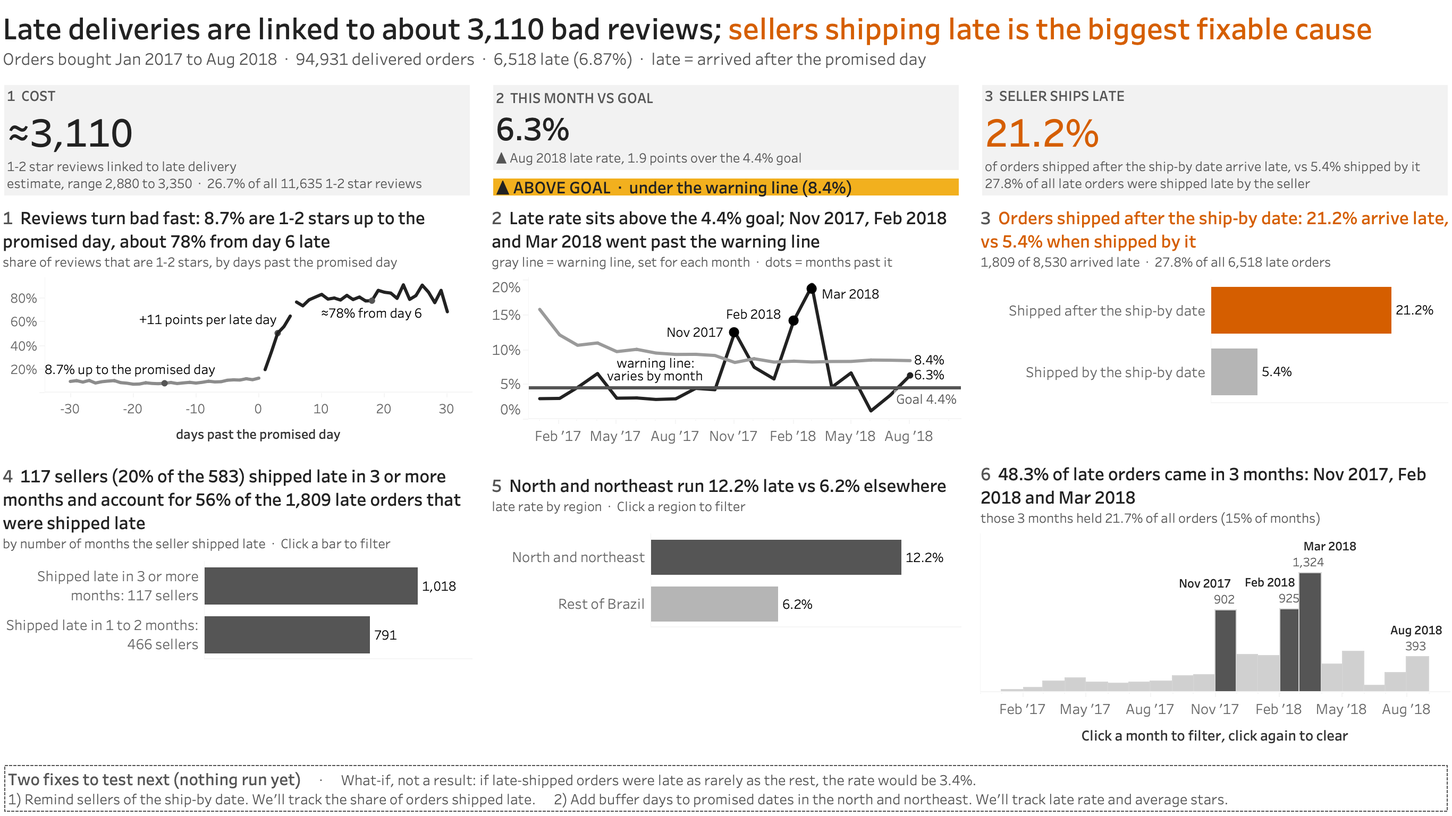
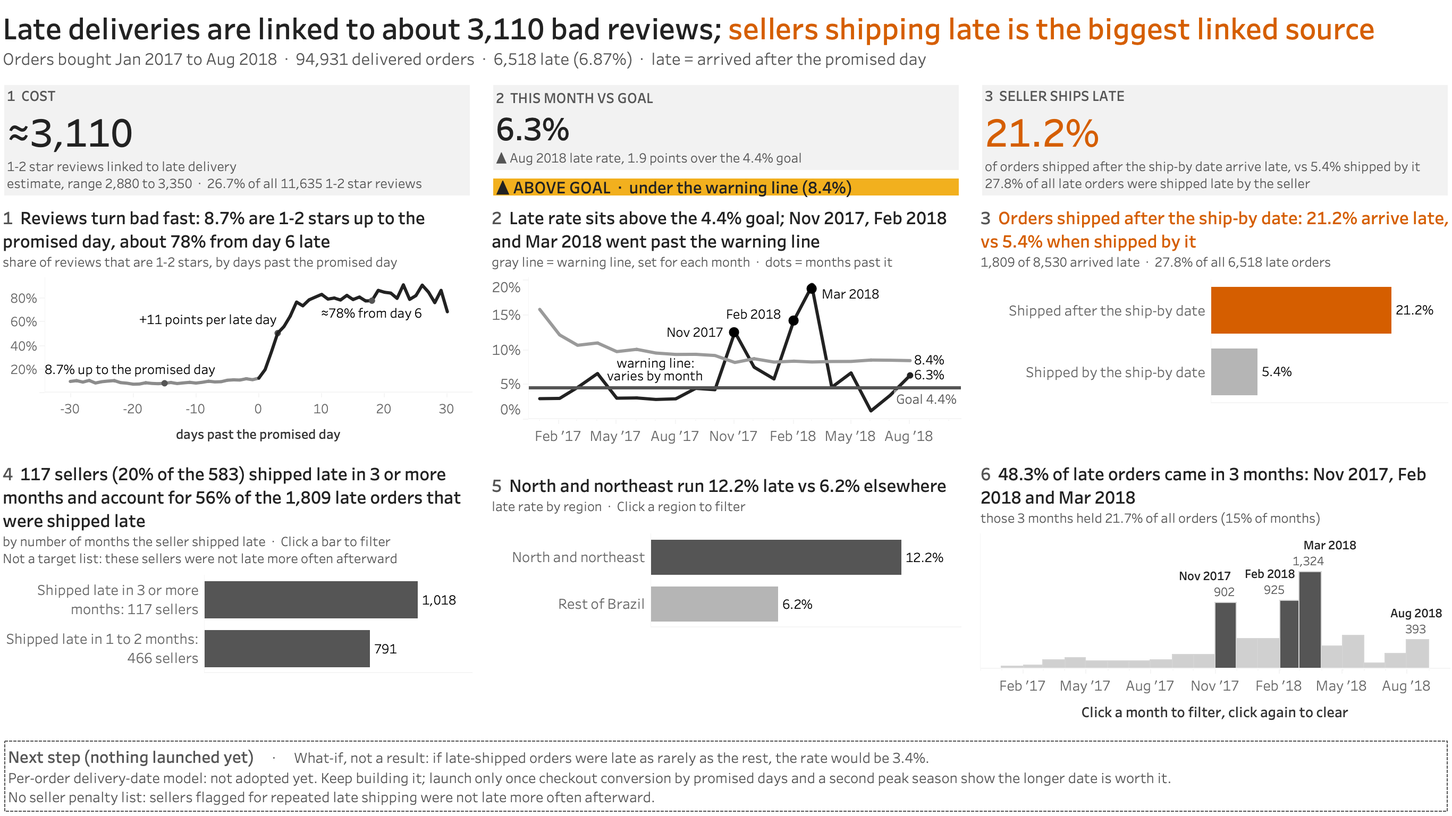
Rebuild Tableau dashboards with the current recommendation
- Bottom strip on both workbooks: the old "Two fixes to test next" (ship-by reminders, buffer days)
  is replaced by the case study's recommendation on three lines: the per-order delivery-date model
  is not adopted yet and launches only once checkout conversion by promised days and a second peak
  season show the longer date is worth it; no seller penalty list.
- Title: "biggest linked source" (fits on one line). Six-chart sellers panel: "Not a target list" note.
- Review ramp line no longer breaks at day 0-1 and day 5-6 (bridge rows in prep.py); Feb 2018 count
  no longer touches the Mar 2018 bar (tag_pad in prep4.py).
- Workbooks regenerated and re-exported from Tableau Desktop; docs/img/dashboard.png,
  v4_six_chart.png and B1_v2.png replaced. The "predates the recommendations" notes are removed.
- numbers_check_v4.py: 110 checks (header, tile 1, ramp labels and bridge rows, panel 3 and 6
  subtitles, strip and panel note; fails on the retired strip wording).

diff --git a/dashboard/tableau/gen_v4.py b/dashboard/tableau/gen_v4.py
@@ -423,7 +423,7 @@ if need2:
         tip=['Orders: ',('order_code','cnt'),'\nLate orders: ',('late_n','sum'),'\nLate rate: ',('late','avg')])
     if (PROTO=='P2' and NCH=='6') or PROTO=='P1':
         BK=('month_start','tmn')
-        ows('Months',ORD,[BK],mark='Bar',cols=ORD.q(*BK),rows=ORD.q('late_n','sum'),color=('is_worst3_month','nk'),text=[('tag_m','nk'),('late_tag_n','sum')],runs=[(('tag_m','nk'),8,True,INK),(None,0,0,''),(('late_tag_n','sum'),8,False,MID)] if YEARTAG else [(('month_tag','nk'),8,True,INK),(None,0,0,''),(('late_tag_n','sum'),8,False,MID)],
+        ows('Months',ORD,[BK],mark='Bar',cols=ORD.q(*BK),rows=ORD.q('late_n','sum'),color=('is_worst3_month','nk'),text=[('tag_m','nk'),('late_tag_n','sum')]+([('tag_pad','nk')] if YEARTAG else []),runs=[(('tag_m','nk'),8,True,INK),(None,0,0,''),(('late_tag_n','sum'),8,False,MID),(('tag_pad','nk'),8,False,MID)] if YEARTAG else [(('month_tag','nk'),8,True,INK),(None,0,0,''),(('late_tag_n','sum'),8,False,MID)],
             palette_map=[('true',MID),('false',PALE)],hide_axes=[('late_n','sum')],extra_uses=[('late_n','sum'),('late_tag_n','sum'),BK],
             axis_titles={(BK[0],BK[1],'cols'):'Click a month to filter, click again to clear',('late_n','sum','rows'):''},xspace=(BK,TORIG if YEARTAG else '#2017-01-01#',TICK if YEARTAG else '6.0','months'),datefmts=[('label',TFMT if YEARTAG else '*mmm yyyy',None)],axis_font=(TICKFS if YEARTAG else None),
             tip=['Orders: ',('order_code','cnt'),'\nLate orders: ',('late_n','sum'),'\nLate rate: ',('late','avg')])
@@ -476,12 +476,15 @@ dpts=abs(LR-GP)*100
 LH=F('late_handoff_late_rate'); OK_=F('on_time_handoff_late_rate')
 N_SELL=int(round(F('sellers_with_late_after_late_handoff'))); NLL=n0(F('late_handoff_late_orders'))
 grp=lambda kind:[g for g in SG if g['kind']==kind]
+# The bottom strip states the case study's two recommendations (docs/CASE_STUDY.md, Recommendation); it holds no numbers.
+REC_MODEL="Per-order delivery-date model: not adopted yet. Keep building it; launch only once checkout conversion by promised days and a second peak season show the longer date is worth it."
+REC_SELLER="No seller penalty list: sellers flagged for repeated late shipping were not late more often afterward."
 def seller_title():
     if SELL=='codes': return ('Calling the 10 worst sellers won\'t fix it: they account for only %s of the %s late orders that were shipped late'%(p0(F('top10_share_of_late_after_late_handoff')),NLL),'Seller (anonymized ID), late orders  \u00b7  Click a seller to filter the other charts')
     g=grp(SELL)[0]; nm=g['grp'].split(':')[0]; ns=int(g['grp'].split(': ')[1].split()[0].replace(',','')); sh=float(g['share_of_late_shipped_late'])
     if SELL=='size': return ('By seller size: large sellers are %s of the %d sellers behind these late orders and account for %s of the %s that were shipped late'%(p0(ns/N_SELL),N_SELL,p0(sh),NLL),'Late orders that were shipped late, by seller size (sellers with at least one)  \u00b7  Click a bar to filter the other charts')
     if SELL=='state': return ('By seller state: %s are %s of the %d sellers behind these late orders and account for %s of the %s that were shipped late'%(nm.replace('State ','sellers in '),p0(ns/N_SELL),N_SELL,p0(sh),NLL),'Late orders that were shipped late, by seller state (top 5 states)  \u00b7  Click a bar to filter the other charts')
-    if PROTO=='P2': return ('%d sellers (%s of the %d) shipped late in 3 or more months and account for %s of the %s late orders that were shipped late'%(ns,p0(ns/N_SELL),N_SELL,p0(sh),NLL),'by number of months the seller shipped late  \u00b7  Click a bar to filter')
+    if PROTO=='P2': return ('%d sellers (%s of the %d) shipped late in 3 or more months and account for %s of the %s late orders that were shipped late'%(ns,p0(ns/N_SELL),N_SELL,p0(sh),NLL),'by number of months the seller shipped late  \u00b7  Click a bar to filter\nNot a target list: these sellers were not late more often afterward')
     return ('%d sellers (%s of the %d) had late-shipped late orders in 3 or more months, and they account for %s of the %s that were shipped late'%(ns,p0(ns/N_SELL),N_SELL,p0(sh),NLL),'Late orders that were shipped late, by how many months the seller did it  \u00b7  Click a bar to filter the other charts')
 def mk_actions(DASH,srcs):
     def action(cap,src,exclude):
@@ -520,7 +523,7 @@ if need2:
     zid[0]=10; Z=''
     if PROTO=='P2':
         DNAME='Story (%s charts)'%NCH
-        fin_a='Late deliveries are linked to about %s bad reviews; '%n0(F('extra_bad_reviews_rounded')); fin_b='sellers shipping late is the biggest linked source of lateness'
+        fin_a='Late deliveries are linked to about %s bad reviews; '%n0(F('extra_bad_reviews_rounded')); fin_b='sellers shipping late is the biggest linked source'
         Z+=ztxt([(fin_a,20,True,INK),(fin_b,20,True,ACC),NL,('Orders bought %s to %s  \u00b7  %s delivered orders  \u00b7  %s late (%s)  \u00b7  late = arrived after the promised day'%(SC['first_label'],LAT,n0(F('judged_orders')),n0(F('late_orders')),p2(F('late_rate'))),11,False,MID)],1,0.4,98,9.6)
         Z+=ztxt([('1  COST',10,True,MID),NL,('\u2248'+n0(F('extra_bad_reviews_rounded')),27,True,INK),NL,('1-2 star reviews linked to late delivery',9,False,MID),NL,('estimate, range %s to %s  \u00b7  %s of all %s 1-2 star reviews'%(n0(F('extra_range_low_rounded')),n0(F('extra_range_high_rounded')),p1(F('extra_share_of_bad_reviews')),n0(F('bad_reviews_all'))),9,False,MID)],CX[0],10.2,CW,14.6,zstyle(bg=TILE,margin=4))
         Z+=ztxt([('2  THIS MONTH VS GOAL',10,True,MID),NL,(p1(LR),22,True,INK),NL,('%s %s late rate, %.1f points %s the %s goal'%(arrow,LAT,dpts,'over' if LR>GP else 'under',p1(GP)),9,False,MID)],CX[1],10.2,CW,11.4,zstyle(bg=TILE,margin=4))
@@ -531,7 +534,7 @@ if need2:
         trend_head='Late rate sits above the %s goal; %s went past the warning line'%(p1(GP),SUM['worst3_months_label'])
         foot_t=("What-if: if late-shipped orders were late as rarely",'as the rest, the rate would be %s.'%p1(SP_)) if TREND!='orig' else None
         if NCH=='6':
-            TH=9.0; r1c=TOP+TH; r1h=55.6-r1c; r2T=r1c+r1h+0.6; r2c=r2T+TH; r2h=92.4-r2c
+            TH=9.0; r1c=TOP+TH; r1h=55.6-r1c; r2T=r1c+r1h+0.6; r2c=r2T+TH; r2h=89.5-r2c
             Z+=title('1','Reviews turn bad fast: %s are 1-2 stars up to the promised day, about %s from day 6 late'%(p1(F('ramp_share_up_to_promised_day')),p0(F('ramp_share_from_day_6'))),'share of reviews that are 1-2 stars, by days past the promised day',CX[0],TOP,CW)
             Z+=zone_sheet('Review ramp',CX[0],r1c,CW,r1h,zstyle(margin=2))
             FT=0
@@ -540,7 +543,7 @@ if need2:
             Z+=title('3','Orders shipped after the ship-by date: %s arrive late, vs %s when shipped by it'%(p1(LH),p1(OK_)),'%s of %s arrived late  \u00b7  %s of all %s late orders'%(n0(F('late_handoff_late_orders')),n0(F('late_handoff_orders')),p1(F('late_handoff_share_of_late')),n0(F('late_orders'))),CX[2],TOP,CW,hc=ACC)
             Z+=zone_sheet('Handoff',CX[2],r1c,CW,r1h,zstyle(margin=4))
             st_,sn_=seller_title(); CLOSE=2.6
-            T4=3.4 if SELL=='repeat' else 0
+            T4=5.0 if SELL=='repeat' else 0
             Z+=title('4',st_,sn_,CX[0],r2T,CW,TH+T4)
             Z+=zone_sheet('Sellers',CX[0],r2c+T4,CW,r2h-T4-(CLOSE if SELL=='codes' else 0),zstyle(margin=2))
             if SELL=='codes': Z+=ztxt([('The other %d sellers account for the remaining %s.'%(N_SELL-10,p0(1-F('top10_share_of_late_after_late_handoff'))),10,False,MID)],CX[0],r2c+r2h-CLOSE,CW,CLOSE,zstyle(margin=2))
@@ -548,7 +551,7 @@ if need2:
             Z+=zone_sheet('Region',CX[1],r2c,CW,min(r2h,14),zstyle(margin=2))
             Z+=ztxt([('6  ',12,True,MID),('%s of late orders came in 3 months: %s'%(p1(F('worst3_share_of_late')),SUM['worst3_months_label']),12,True,INK),NL,('those 3 months held %s of all orders (%s of months)'%(p1(F('worst3_share_of_orders')),p0(F('worst3_share_of_months'))),9,False,MID)],CX[2],r2T,CW,TH)
             Z+=zone_sheet('Months',CX[2],r2c,CW,r2h,zstyle(margin=2))
-            BOT=93.1
+            BOT=90.2
         else:
             TH=9.0; HW=49; X2=51; TOP=25.4
             rowh=31.0; rowh2=35.8; r1c=TOP+TH; r1h=rowh-TH; r2T=TOP+rowh+0.6; r2c=r2T+TH; r2h=rowh2-TH-0.4
@@ -565,7 +568,7 @@ if need2:
             Z+=zone_sheet('Region',X2,r2c,HW,min(r2h,24),zstyle(margin=2))
             BOT=93.1
         whatif=('      \u00b7      What-if, not a result: if late-shipped orders were late as rarely as the rest, the rate would be %s.'%p1(SP_)) if foot_t else ''
-        Z+=ztxt([('Next step (nothing launched yet)',11,True,MID),(whatif,10,False,MID),NL,("Keep building the per-order delivery-date model; launch only once checkout conversion by promised days and a second peak season show the longer date is worth it.      No seller penalty list: flagged sellers did not run late more often.",10,False,MID)],1,BOT,98,6.8,zstyle(border=MID,bstyle='dashed',bw=1,margin=4))
+        Z+=ztxt([('Next step (nothing launched yet)',11,True,MID),(whatif,10,False,MID),NL,(REC_MODEL,10,False,MID),NL,(REC_SELLER,10,False,MID)],1,BOT,98,99.9-BOT,zstyle(border=MID,bstyle='dashed',bw=1,margin=4))
         srcs=[('Filter by seller','Sellers'),('Filter by region','Region')]+([('Filter by month','Months')] if NCH=='6' else [])
     else:
         DNAME='Diagnosis'

diff --git a/dashboard/tableau/numbers_check_v4.py b/dashboard/tableau/numbers_check_v4.py
@@ -115,16 +115,38 @@ chk('repeat panel: bar values as drawn (late orders that were shipped late)','1,
 chk('repeat panel: sellers in each bar as counted in orders.csv (the numbers in the labels)','117 / 466',' / '.join(N(r[1]) for r in rl))
 chk('repeat panel: the two bars add up to all 1,809','1,809',N(sum(r[2] for r in rl)))
 chk('repeat panel: 1,018 of 1,809 and 791 of 1,809 (warehouse)','1,018 / 791',N(rep[1])+' / '+N(rep[3]))
+# ---- header, tile 1, panel 1, panel 3 and panel 6 subtitles: counts recomputed from the warehouse where the base table allows,
+# the rest read from summary.csv (verification/verify_dash_exports.py ties every summary.csv value to the warehouse and facts.json)
+nlate=q("select sum(is_late::int) from b")[0][0]
+P2=lambda x:'%.2f%%'%(f(x)*100)
+chk('header: delivered orders','94,931',tot[0],N); chk('header: late orders','6,518',nlate,N); chk('header: late rate','6.87%',nlate/tot[0],P2)
+chk('panel 3: orders shipped after the ship-by date','8,530',hl[1][1],N); chk('panel 3: of those, arrived late','1,809',hl[1][2],N)
+chk('tile 1: range low (summary.csv)','2,880',S['extra_range_low_rounded'],N); chk('tile 1: range high (summary.csv)','3,350',S['extra_range_high_rounded'],N)
+chk('tile 1: all 1-2 star reviews (summary.csv)','11,635',S['bad_reviews_all'],N); chk('tile 1: share of them (summary.csv)','26.7%',S['extra_share_of_bad_reviews'],P1)
+chk('panel 1: share up to the promised day (summary.csv)','8.7%',S['ramp_share_up_to_promised_day'],P1); chk('panel 1: share from day 6 (summary.csv)','78%',S['ramp_share_from_day_6'],P0)
+chk('panel 1: points per late day (summary.csv)','11','%d'%round(f(S['ramp_points_per_day'])*100))
+chk('panel 6: worst 3 months share of orders (summary.csv)','21.7%',S['worst3_share_of_orders'],P1); chk('panel 6: share of months (summary.csv)','15%',S['worst3_share_of_months'],P0)
+RL=sorted(r['lab'] for r in csv.DictReader(open(DATA+'/ramp_b.csv',encoding='utf8')) if r['lab'])
+chk('panel 1: ramp labels as drawn (ramp_b.csv)',' / '.join(sorted(['8.7% up to the promised day','+11 points per late day','\u224878% from day 6'])),' / '.join(RL))
+RB_=list(csv.DictReader(open(DATA+'/ramp_b.csv',encoding='utf8')))
+chk('panel 1: line unbroken (day 0 and day 5 bridge rows repeat the next phase)','climbing@0 levelled@5',' '.join('%s@%s'%(r['phase'],r['days_past_promise_capped']) for r in RB_ if (r['days_past_promise_capped'],r['phase']) in (('0','climbing'),('5','levelled'))))
 # ---- text on the workbooks
 need={'out_v4_six_chart':['Goal 4.4%','What-if, not a result: if late-shipped orders were late as rarely as the rest, the rate would be 3.4%.','ABOVE GOAL','under the warning line (8.4%)','gray line = warning line, set for each month','dots = months past it',
       '117 sellers (20% of the 583) shipped late in 3 or more months and account for 56% of the 1,809 late orders that were shipped late','Late rate sits above the 4.4% goal; Nov 2017, Feb 2018 and Mar 2018 went past the warning line',
-      '48.3% of late orders came in 3 months: Nov 2017, Feb 2018 and Mar 2018','North and northeast run 12.2% late vs 6.2% elsewhere','Aug 2018 late rate, 1.9 points over the 4.4% goal']}
+      '48.3% of late orders came in 3 months: Nov 2017, Feb 2018 and Mar 2018','North and northeast run 12.2% late vs 6.2% elsewhere','Aug 2018 late rate, 1.9 points over the 4.4% goal',
+      'Not a target list: these sellers were not late more often afterward',
+      '94,931 delivered orders','6,518 late (6.87%)','range 2,880 to 3,350','26.7% of all 11,635 1-2 star reviews','8.7% are 1-2 stars up to the promised day, about 78% from day 6 late',
+      '1,809 of 8,530 arrived late','27.8% of all 6,518 late orders','those 3 months held 21.7% of all orders (15% of months)','Next step (nothing launched yet)',
+      'Per-order delivery-date model: not adopted yet. Keep building it; launch only once checkout conversion by promised days and a second peak season show the longer date is worth it.',
+      'No seller penalty list: sellers flagged for repeated late shipping were not late more often afterward.']}
 for wb,ts in need.items():
     p=TW+'/%s.twb'%wb
     assert os.path.exists(p),p
     x=open(p,encoding='utf8').read().replace('&apos;',"'")
     for t in ts: chk('%s text: %s'%(wb,t[:46]),'present','present' if t in x else 'MISSING')
-bad=[w for w in ['handoff gap','Handed','alarm line','e.g.','EXAMPLE','invented'] if any(w.lower() in re.sub(r'c Alarm line','',open(p,encoding='utf8').read()).lower() for p in [TW+'/out_v4_six_chart.twb'])]
+# wording retired with the old recommendations (seller ship-by reminders, buffer days, "fixable cause") must be gone too
+OLD_REC=['Two fixes to test','Remind sellers','ship-by date. We','buffer days','fixable cause','test next']
+bad=[w for w in ['handoff gap','Handed','alarm line','e.g.','EXAMPLE','invented']+OLD_REC if any(w.lower() in re.sub(r'c Alarm line','',open(p,encoding='utf8').read()).lower() for p in [TW+'/out_v4_six_chart.twb'])]
 chk('old/invented wording absent from every workbook','none',','.join(bad) or 'none')
 w=max(len(r[0]) for r in rows)
 print('%-*s | %-30s | %-30s | %s'%(w,'item','on image / csv','warehouse','result'))

diff --git a/dashboard/tableau/gen_workbook.py b/dashboard/tableau/gen_workbook.py
@@ -374,7 +374,7 @@ def ztxt(runs,x,y,w,h,style=''):
     return "        <zone h='%d' id='%d' type='text' w='%d' x='%d' y='%d'><formatted-text>%s</formatted-text>%s</zone>\n"%(P(h),nid(),P(w),P(x),P(y),''.join(rr),style or zstyle())
 NL=('\n',0,0,'')
 fin_a='Late deliveries are linked to about %s bad reviews; '%n0(F('extra_bad_reviews_rounded'))
-fin_b='sellers shipping late is the biggest linked source of lateness'
+fin_b='sellers shipping late is the biggest linked source'
 CX=[1,34,67]; CW=32
 Z=''
 Z+=ztxt([(fin_a,20,True,INK),(fin_b,20,True,ACC),NL,('Orders bought Jan 2017 to Aug 2018  ·  %s delivered orders  ·  %s late (%s)  ·  late = arrived after the promised day'%(n0(F('judged_orders')),n0(F('late_orders')),p2(F('late_rate'))),11,False,MID)],1,0.4,98,9.6)
@@ -399,7 +399,7 @@ def title(n,head,note,x,y,w,hh=TH,hc=INK):
     if note: runs+=[NL,(note,9,False,MID)]
     return ztxt(runs,x,y,w,hh)
 r1c=R1T+TH; r1h=(55.6-r1c)
-r2T=r1c+r1h+0.6; r2c=r2T+TH; r2h=92.4-r2c
+r2T=r1c+r1h+0.6; r2c=r2T+TH; r2h=89.5-r2c
 Z+=title('1','Reviews turn bad fast: %s are 1-2 stars up to the promised day, about %s from day 6 late'%(p1(F('ramp_share_up_to_promised_day')),p0(F('ramp_share_from_day_6'))),'share of reviews that are 1-2 stars, by days past the promised day',CX[0],R1T,CW)
 Z+=zone_sheet('Review ramp',CX[0],r1c,CW,r1h,zstyle(margin=2))
 Z+=title('2','Late rate sits above the %s goal; %s went past the warning line'%(p1(F('goal_late_rate')),SUM['worst3_months_label']),'gray line = warning line: above it is more than random swings',CX[1],R1T,CW)
@@ -415,7 +415,10 @@ Z+=title('5','North and northeast run %s late vs %s elsewhere'%(p1(F('nne_late_r
 Z+=zone_sheet('Region',CX[1],r2c,CW,min(r2h,14),zstyle(margin=2))
 Z+=ztxt([('6  ',12,True,MID),('%s of late orders came in 3 months: %s'%(p1(F('worst3_share_of_late')),SUM['worst3_months_label']),12,True,INK),NL,('those 3 months held %s of all orders (%s of months)'%(p1(F('worst3_share_of_orders')),p0(F('worst3_share_of_months'))),9,False,MID)],CX[2],r2T,CW,TH)
 Z+=zone_sheet('Months',CX[2],r2c,CW,r2h,zstyle(margin=2))
-Z+=ztxt([('Next step (nothing launched yet)',11,True,MID),NL,("Keep building the per-order delivery-date model; launch only once checkout conversion by promised days and a second peak season show the longer date is worth it.      No seller penalty list: flagged sellers did not run late more often.",10,False,MID)],1,93.1,98,6.8,zstyle(border=MID,bstyle='dashed',bw=1,margin=4))
+# The bottom strip states the case study's two recommendations (docs/CASE_STUDY.md, Recommendation); it holds no numbers.
+REC_MODEL="Per-order delivery-date model: not adopted yet. Keep building it; launch only once checkout conversion by promised days and a second peak season show the longer date is worth it."
+REC_SELLER="No seller penalty list: sellers flagged for repeated late shipping were not late more often afterward."
+Z+=ztxt([('Next step (nothing launched yet)',11,True,MID),NL,(REC_MODEL,10,False,MID),NL,(REC_SELLER,10,False,MID)],1,90.2,98,9.7,zstyle(border=MID,bstyle='dashed',bw=1,margin=4))
 ACTIONS=''
 def action(cap,src,exclude):
     return ("    <action caption='%s' name='[Action_%s]'>\n      <activation auto-clear='true' type='on-select' />\n      <source dashboard='%s' type='sheet' worksheet='%s' />\n      <command command='tsc:tsl-filter'>\n        <param name='exclude' value='%s' />\n        <param name='special-fields' value='all' />\n        <param name='target' value='%s' />\n      </command>\n    </action>\n")%(cap,h32(cap)[:16],DASH,src,exclude,DASH)

diff --git a/dashboard/tableau/prep4.py b/dashboard/tableau/prep4.py
@@ -33,12 +33,14 @@ def ren(v):
         if m: return '%s: %s sellers'%(new,m.group(1))
     return v
 for r in rd: r['seller_repeat']=ren(r['seller_repeat'])
-cols=list(rd[0].keys())+['tag_m','tag_y','tag_n']
+# tag_pad: blank fillers printed after the Feb count (the count itself is a live sum, so it cannot be padded) so it clears the Mar bar
+FEBPAD=E_('FEBCH','\u3164')*int(E_('FEBNN','3'))
+cols=list(rd[0].keys())+['tag_m','tag_y','tag_n','tag_pad']
 with open(os.path.join(out,'orders.csv'),'w',newline='',encoding='utf-8') as f:
     w=csv.writer(f,lineterminator='\n'); w.writerow(cols)
     for r in rd:
         t=bool(r['month_tag']); ym=r['year_month']
-        w.writerow([r[c] for c in cols[:-3]]+([tag(ym,mname(ym),PM),ym[:4],tag(ym,format(late[ym],','),PN)] if t else ['','','']))
+        w.writerow([r[c] for c in cols[:-4]]+([tag(ym,mname(ym),PM),ym[:4],tag(ym,format(late[ym],','),PN),FEBPAD if ym=='2018-02' else ''] if t else ['','','','']))
 # ---------------- trend
 T=list(csv.DictReader(open(os.path.join(src,'trend_b.csv'))))
 bym={}

diff --git a/dashboard/tableau/prep.py b/dashboard/tableau/prep.py
@@ -17,8 +17,13 @@ M=rd('monthly'); first,last=M[0]['month_label'],M[-1]['month_label']
 R=rd('review_ramp')
 labs={'-15':'%s up to the promised day'%p1(F('ramp_share_up_to_promised_day')),'3':'+%d points per late day'%round(F('ramp_points_per_day')*100),'18':'≈%s from day 6'%p0(F('ramp_share_from_day_6'))}
 RB=[]
+# Bridge rows: each colour is its own line in Tableau, so the last point of one phase is repeated as the first point of the
+# next (day 0 also starts "climbing", day 5 also starts "levelled"); otherwise the line breaks between day 0 and 1 and day 5 and 6.
+BRIDGE={'0':'climbing','5':'levelled'}
 for r in R:
     r=dict(r); r['lab']=''; RB.append(r)
+    if r['days_past_promise_capped'] in BRIDGE:
+        RB.append(dict(r,phase=BRIDGE[r['days_past_promise_capped']]))
     if r['days_past_promise_capped'] in labs:
         r2=dict(r); r2['phase']='label'; r2['lab']=labs[r['days_past_promise_capped']]; RB.append(r2)
 wr('ramp_b',RB)

diff --git a/case_study/check_case_study.py b/case_study/check_case_study.py
@@ -20,8 +20,7 @@ import ontology_view
 
 README = ROOT / "README.md"                      # the short summary
 FULL = ROOT / "docs" / "CASE_STUDY.md"           # the full case study; docs/index.md (Pages) is built from it
-DEFINITION_PHRASES = ["one- and two-star", "one or two stars", "one- or two-star", "Test 1", "test 1",
-                      '"Two fixes to test next"']  # review_score <= 2, the Test 1 label, and a panel title quoted from the dashboard image
+DEFINITION_PHRASES = ["one- and two-star", "one or two stars", "one- or two-star", "Test 1", "test 1"]  # review_score <= 2 and the Test 1 label
 
 
 def pct(x, d=1):

diff --git a/dashboard/tableau/README.md b/dashboard/tableau/README.md
@@ -4,7 +4,7 @@ The late-delivery dashboard as a Tableau Desktop workbook, with the script that 
 
 ![dashboard](B1_v2.png)
 
-The title says the finding: late deliveries are linked to about 3,110 bad reviews, and sellers shipping late is the biggest fixable cause. The wording is deliberately not causal: the 3,110 is an estimate from past orders, not a controlled test. Three tiles (cost, this month against the 4.4% goal, seller ships late 21.2% vs 5.4%), then trend, why, and where. Gray everywhere, orange only for orders shipped after the ship-by date. The strip at the bottom names two fixes to test next, with what each would track; it holds no numbers and nothing has been run.
+The title says the finding: late deliveries are linked to about 3,110 bad reviews, and sellers shipping late is the biggest linked source. The wording is deliberately not causal: the 3,110 is an estimate from past orders, not a controlled test. Three tiles (cost, this month against the 4.4% goal, seller ships late 21.2% vs 5.4%), then trend, why, and where. Gray everywhere, orange only for orders shipped after the ship-by date. The strip at the bottom states the case study's recommendation: the per-order delivery-date model is not adopted yet (launch waits on checkout conversion by promised days and a second peak season), and there is no seller penalty list. It holds no numbers.
 
 The wording is plain on purpose ("seller ships late", "warning line"), after a comparison with well-rated public dashboards. The data tables and the dbt models keep the older names (handoff, alarm line, stretch what-if); only the words on the dashboard changed. Each clickable panel carries its own click hint. Every figure in the text is built from `summary.csv` when the workbook is generated, including the "1.9 points over the goal" in tile 2 (latest month's late rate minus the goal) and the "other 573 sellers, 81%" line under the seller bars (583 sellers with a late-shipped late order, minus 10; one minus the top-10 share). The warning line's note says what it means in a few words; that it moves with each month's order count is not on the dashboard any more (there was no room).
 
@@ -76,7 +76,7 @@ A second page next to B1: one dashboard with six charts instead of the B1 layout
 
 What changed against B1:
 
-- **Sellers panel.** Bars are the number of months a seller shipped late: "3 or more months" (117 sellers, 20% of the 583, 1,018 of the 1,809 late orders that were shipped late) and "1 to 2 months" (466 sellers, 791). The title says the 56%.
+- **Sellers panel.** Marked "Not a target list": sellers flagged as of each month for repeated late handoffs were not late more often afterward (the case study's seller check). Bars are the number of months a seller shipped late: "3 or more months" (117 sellers, 20% of the 583, 1,018 of the 1,809 late orders that were shipped late) and "1 to 2 months" (466 sellers, 791). The title says the 56%.
 - **Four reader fixes on the trend and months charts**
   1. Warning line: its end label (8.4%) and a short note ("warning line: varies by month") sit at the line, and the line is solid.
   2. Months chart: each tagged bar is named with month and year (Nov 2017, Feb 2018, Mar 2018, Aug 2018) and carries its late-order count. The count is a sum over the clicked data, so it follows the click filters.
@@ -90,7 +90,7 @@ What changed against B1:
 | `v4_six_chart.png` | the exported image, full size |
 | `prep3.py`, `prep4.py` | CSVs for this page (step 1 reads the warehouse, step 2 adds the label series and the month tags) |
 | `gen_v4.py` | builds the workbook XML (same control file as B1) |
-| `numbers_check_v4.py` | 82-check number check; output in `evidence/v4/numbers_check_v4.txt` |
+| `numbers_check_v4.py` | 110-check number check; output in `evidence/v4/numbers_check_v4.txt` |
 | `click_expect.py`, `harness/click_probe4.py` | expected values for each click from DuckDB; the Mac click harness for this layout |
 | `evidence/v4/` | click test: `results.md`, `expected.md`, four images (downscaled to 1366 x 768) |
 
@@ -125,8 +125,21 @@ The second `gen_v4.py` argument is the folder written into the workbook as where
 
 The "1 to 2 months" bar was not clicked (expected values are in `evidence/v4/expected.md`).
 
+### Rebuilt 2026-11-23
+
+Both workbooks and both images were regenerated with the commands above and exported from Tableau Desktop 2026.3 on the Mac (`harness/export_dash.py`). Changes:
+
+- Bottom strip: the old "Two fixes to test next" (seller ship-by reminders, buffer days) is replaced by the case study's recommendation, on three lines so nothing is cut off. The rows above it are 1.5 points shorter.
+- Title: "biggest linked source" (was "biggest fixable cause", then "biggest linked source of lateness", which did not fit on one line).
+- Six-chart sellers panel: a second note line, "Not a target list: these sellers were not late more often afterward".
+- Review ramp: the line no longer breaks between day 0 and 1 and between day 5 and 6 (`prep.py` repeats the last point of each phase as the first point of the next).
+- Six-chart months chart: the Feb 2018 count (925) is padded left so it no longer touches the Mar 2018 bar (`prep4.py` `tag_pad`).
+- `numbers_check_v4.py` now also checks the header, tile 1, panel 1, 3 and 6 numbers, the ramp labels and bridge rows, the strip and the panel note, and fails if the retired strip wording is in the workbook: 110 checks, 0 mismatches. On the previous workbook it reports 5 mismatches.
+
+The click tests above were not re-run for this rebuild; the filters, actions and data are unchanged.
+
 ### Not cleanly fixed
 
-- Month and count labels on the months chart are positioned with padding characters, because Tableau offers no per-label offset. The "Feb 2018" name now clears the Mar 2018 bar. Under some click filters the Feb count (for example "147") sits flush against the left edge of the Mar bar.
+- Month and count labels on the months chart are positioned with padding characters, because Tableau offers no per-label offset. On the six-chart page the "Feb 2018" name and count now clear the Mar 2018 bar; on B1 the Feb count still touches it.
 - The label placement is set by hand for this data window (Jan 2017 to Aug 2018); other data would need the padding and fixed axis range revisited.
 - Dual-axis circle marks for the dots were tried and abandoned: Tableau did not accept a hand-written dual axis, so the dots are centred text marks.

diff --git a/docs/CASE_STUDY.md b/docs/CASE_STUDY.md
@@ -6,7 +6,7 @@ This project builds a tested data pipeline from about 99,000 real orders of Olis
 
 [![Dashboard of late deliveries, reviews, sellers, regions and months](img/dashboard.png)](img/dashboard.png)
 
-*The dashboard in one view. Click the image for the full-size picture. The interactive version is coming. It was built before the current recommendations. Its "Two fixes to test next" panel (seller ship-by reminders and buffer days) was replaced by the recommendation below, its "fixable cause" title rests on a handoff link that was never tested, and its repeat-late shippers panel is not a target list: a later as-of check found that sellers flagged for repeated late handoffs did not have more late orders afterward. The image has not been rebuilt since.*
+*The dashboard in one view. Click the image for the full-size picture. The interactive version is coming.*
 
 **Role and tools.** An end-to-end analytics project on a public dataset: data modeling and automated data checks in dbt and DuckDB, the review-cost analysis in Python (pandas and statsmodels), a delivery-date model (scikit-learn), a recommendation memo, a Quarto data story and a Tableau dashboard. GitHub Actions rebuilds and checks all of it.
 
@@ -233,7 +233,7 @@ This page uses its labels the same way throughout. An estimated effect comes fro
 | The star penalty holds over time | Smaller recently | It was 1.56 stars in the last four months, against 2.05 earlier. |
 | The delivery-date model uses only facts known at checkout | Small known gap | Its seller handoff-speed input counts only orders that were eventually delivered, which is not fully known at checkout. Fixing it would mean scoring the holdout again, so it is disclosed instead. |
 
-The dashboard title says "linked to" for the first row and "fixable cause" for the handoff. Read the first as the estimated effect above and the second as the untested link in the handoff row. The dashboard was built before the current recommendations; see the note under it at the top of this page.
+The dashboard title says "linked to" in both halves. Read the first as the estimated effect above, and the second, sellers shipping late as the biggest linked source, as the untested link in the handoff row. Its panel of repeat late-shipping sellers is marked as not a target list, for the reason in the recommendation.
 
 Olist's commission and conversion are not in the data, so the case for fixing lateness rests on ratings, not on money. Sales values are in the orders; late orders in the last 12 months of the window carried R$1.0 million of sales.
 

diff --git a/dashboard/README.md b/dashboard/README.md
@@ -12,7 +12,7 @@ Tables for the late-delivery dashboard (layout B: six number tiles over six pane
 | `handoff.csv` | 2 | late or on-time handoff | panel 3 |
 | `sellers.csv` | 2,925 | seller | panel 4; the chart shows `is_top10` |
 | `region.csv` | 2 | north and northeast, rest of Brazil | panel 5 |
-| `tests_example.csv` | 2 | test | not used by the shipped Tableau dashboard (`tableau/`, layout B1), whose bottom strip names two fixes to test and shows no numbers. If a strip with numbers is ever shown, these are **invented example numbers** |
+| `tests_example.csv` | 2 | test | not used by the shipped Tableau dashboards (`tableau/`), whose bottom strip states the recommendation and shows no numbers. If a strip with numbers is ever shown, these are **invented example numbers** |
 
 ## What the numbers mean
 
@@ -39,7 +39,7 @@ Four layers, each proven able to fail:
 
 ## The tests strip is an example
 
-The shipped Tableau dashboard (`tableau/`) no longer shows these numbers; its bottom strip says "Two fixes to test next (nothing run yet)" and holds none. The file stays, still labelled, for any layout that shows a strip with numbers. `seeds/dash_tests_example.csv` holds invented numbers that show the layout. The export marks every row `is_example`, `not run`, "EXAMPLE" in both labels, an asterisk on both values, the banner and a footnote. `assert_dash_tests_are_labelled_example` fails if any row loses one of those. When the tests have run, a results model replaces the seed and that test goes with it.
+The shipped Tableau dashboards (`tableau/`) do not show these numbers. Their bottom strip, "Next step (nothing launched yet)", states the case study's recommendation in words: the per-order delivery-date model is not adopted yet and launches only once checkout conversion by promised days and a second peak season show the longer date is worth it, and there is no seller penalty list. It holds no numbers. The file stays, still labelled, for any layout that shows a strip with numbers. `seeds/dash_tests_example.csv` holds invented numbers that show the layout. The export marks every row `is_example`, `not run`, "EXAMPLE" in both labels, an asterisk on both values, the banner and a footnote. `assert_dash_tests_are_labelled_example` fails if any row loses one of those. When the tests have run, a results model replaces the seed and that test goes with it.
 
 ## Not in these tables
 

diff --git a/README.md b/README.md
@@ -4,7 +4,7 @@ This project builds a tested data pipeline from about 99,000 real orders of Olis
 
 [![Dashboard of late deliveries, reviews, sellers, regions and months](docs/img/dashboard.png)](docs/img/dashboard.png)
 
-*The dashboard in one view. Click the image for the full-size picture, or see it in [the full case study](docs/CASE_STUDY.md#dashboard). The interactive version is coming. It was built before the current recommendations. Its "Two fixes to test next" panel (seller ship-by reminders and buffer days) was replaced by the recommendation below, its "fixable cause" title rests on a handoff link that was never tested, and its repeat-late shippers panel is not a target list: a later as-of check found that sellers flagged for repeated late handoffs did not have more late orders afterward. The image has not been rebuilt since.*
+*The dashboard in one view. Click the image for the full-size picture, or see it in [the full case study](docs/CASE_STUDY.md#dashboard). The interactive version is coming.*
 
 **Role and tools.** An end-to-end analytics project on a public dataset: data modeling and automated data checks in dbt and DuckDB, the review-cost analysis in Python (pandas and statsmodels), a delivery-date model (scikit-learn), a recommendation memo, a Quarto data story and a Tableau dashboard. GitHub Actions rebuilds and checks all of it.
 

diff --git a/docs/index.md b/docs/index.md
@@ -258,7 +258,7 @@ This page uses its labels the same way throughout. An estimated effect comes fro
 | The star penalty holds over time | Smaller recently | It was 1.56 stars in the last four months, against 2.05 earlier. |
 | The delivery-date model uses only facts known at checkout | Small known gap | Its seller handoff-speed input counts only orders that were eventually delivered, which is not fully known at checkout. Fixing it would mean scoring the holdout again, so it is disclosed instead. |
 
-The dashboard title says "linked to" for the first row and "fixable cause" for the handoff. Read the first as the estimated effect above and the second as the untested link in the handoff row. The dashboard was built before the current recommendations; see the note under it at the top of this page.
+The dashboard title says "linked to" in both halves. Read the first as the estimated effect above, and the second, sellers shipping late as the biggest linked source, as the untested link in the handoff row. Its panel of repeat late-shipping sellers is marked as not a target list, for the reason in the recommendation.
 
 Olist's commission and conversion are not in the data, so the case for fixing lateness rests on ratings, not on money. Sales values are in the orders; late orders in the last 12 months of the window carried R$1.0 million of sales.
 
